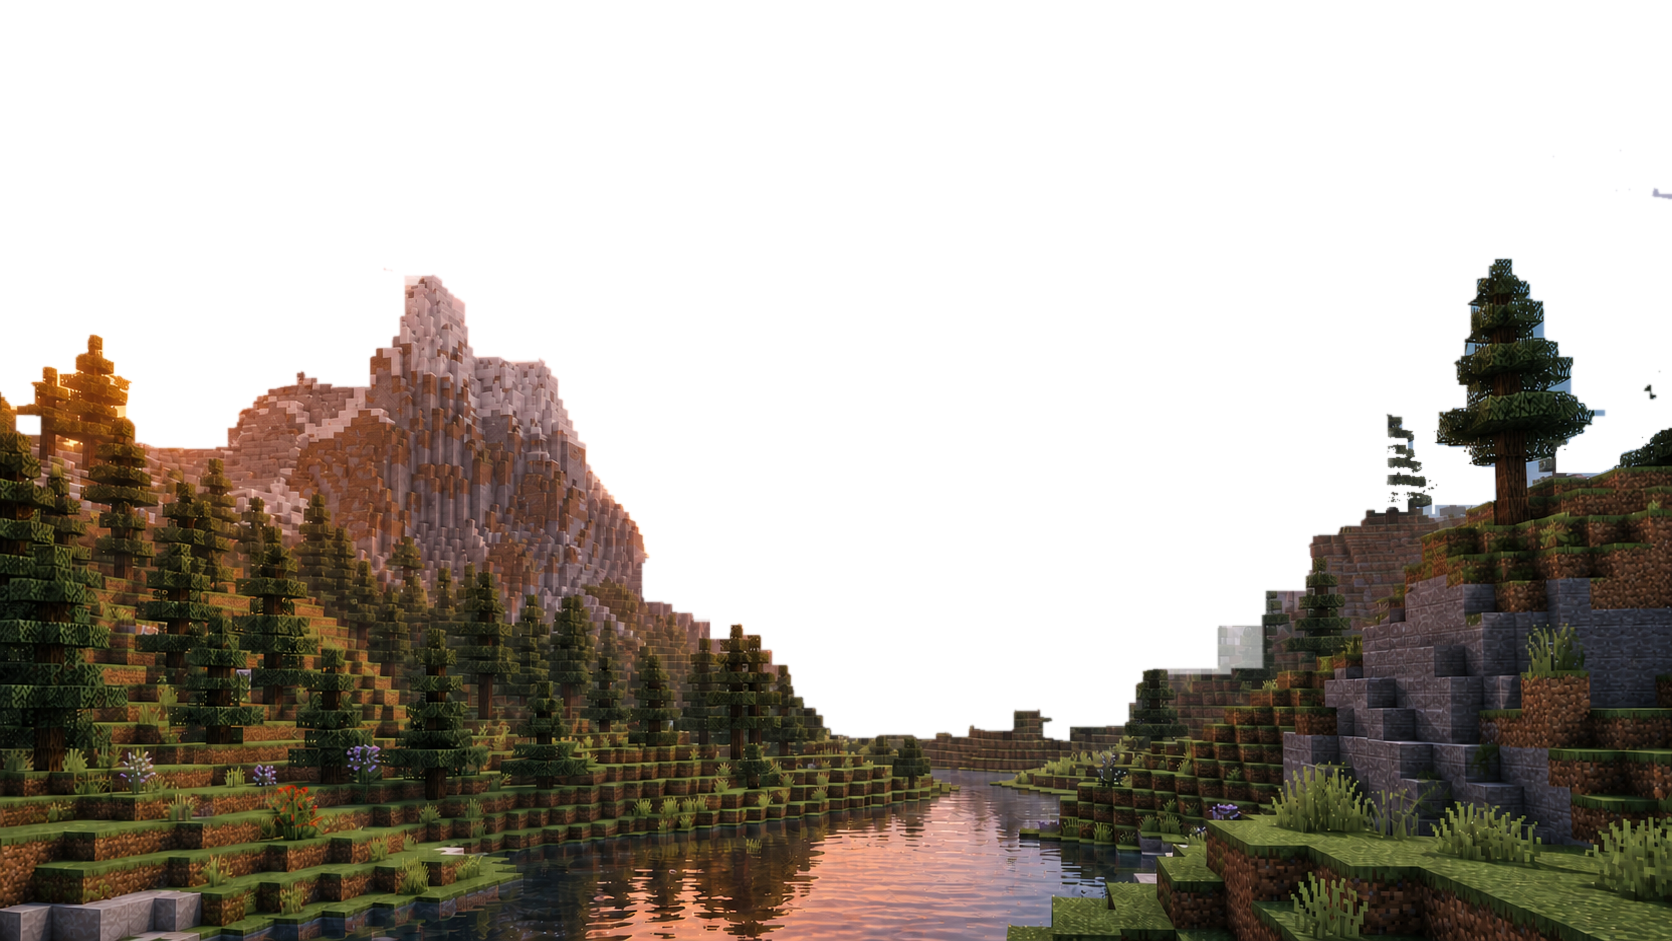
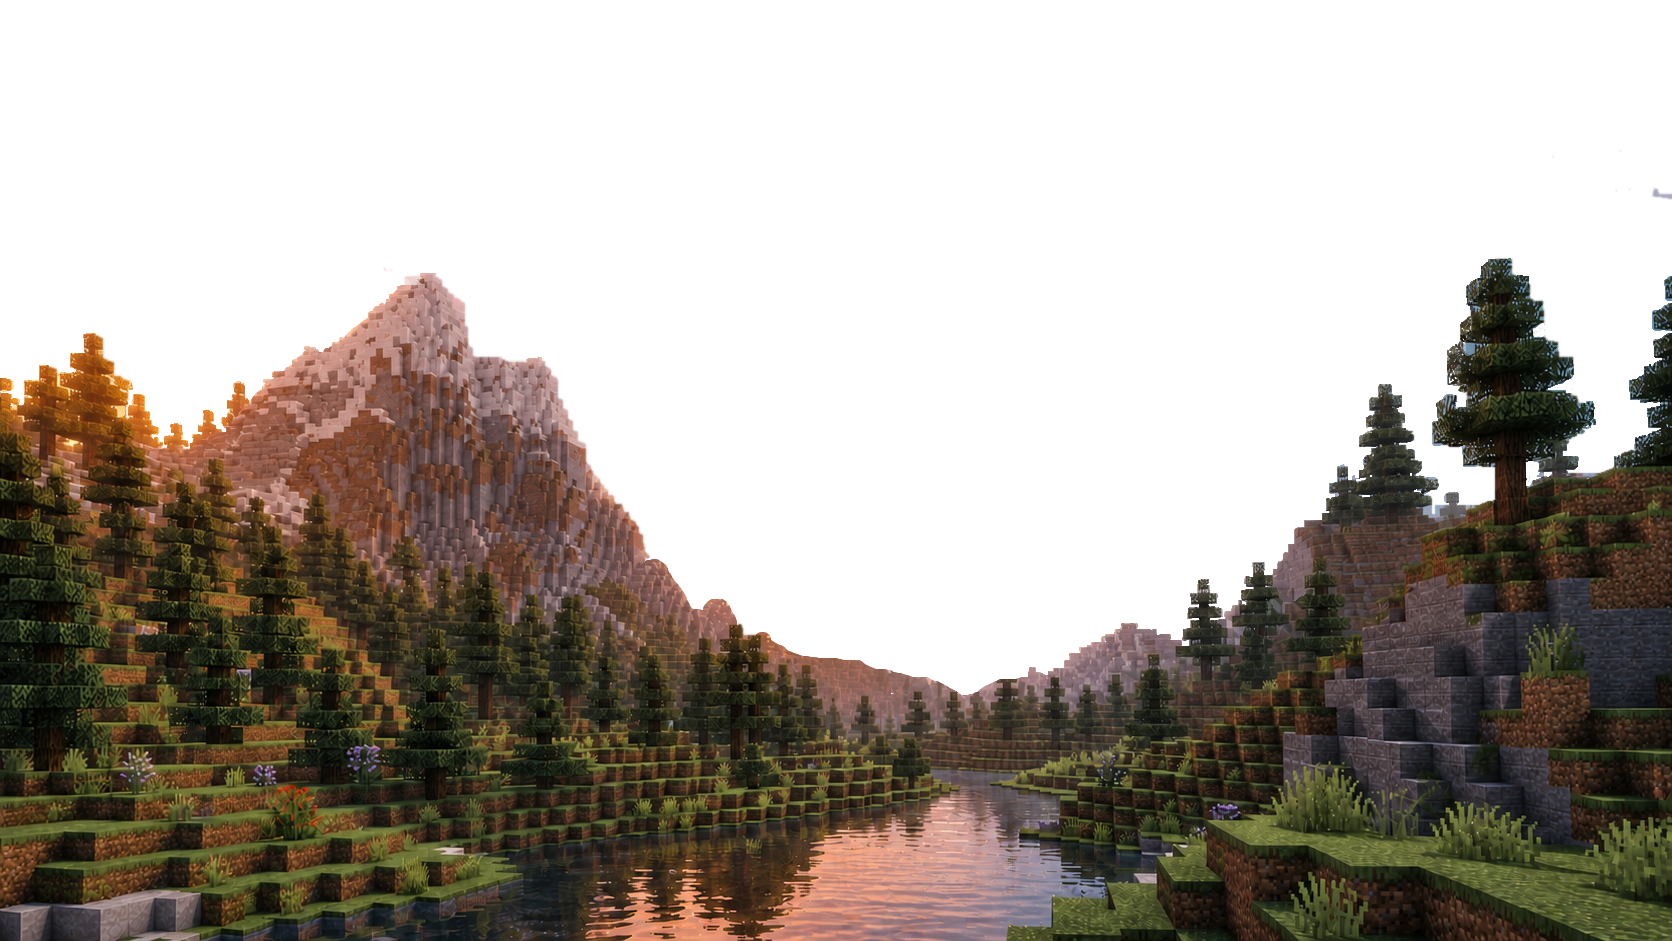
fix(cinematic): apply manually corrected terrain occlusion

diff --git a/public/assets/script.js b/public/assets/script.js
@@ -1641,7 +1641,7 @@ function initWorldEffects() {
   const foregrounds = Object.fromEntries(sceneDefinitions.map(([name]) => {
     const image = document.createElement("img");
     image.className = `cinematic-foreground cinematic-foreground-${name}`;
-    image.src = `assets/minecraft-terrain-foreground-${name}-v1.png?v=7`;
+    image.src = `assets/minecraft-terrain-foreground-${name}-v1.png?v=8`;
     image.alt = "";
     image.decoding = "async";
     return [name, image];
@@ -1711,6 +1711,7 @@ function initWorldEffects() {
   const reducedMotion = window.matchMedia("(prefers-reduced-motion: reduce)").matches;
   const debugEnabled = new URLSearchParams(window.location.search).get("sceneDebug") === "1";
   const debugLayer = new URLSearchParams(window.location.search).get("debugLayer") || "all";
+  const debugGlowDisabled = new URLSearchParams(window.location.search).get("sceneGlow") === "0";
   let sceneScale = 1;
   let sceneOrigin = { x: 0, y: 0 };
   let mobileCamera = false;
@@ -1840,6 +1841,11 @@ function initWorldEffects() {
     const moonControlB = mobileCamera ? screenToScene(window.innerWidth * 0.7, window.innerHeight * 0.12) : { x: SCENE_WIDTH * 0.68, y: SCENE_HEIGHT * 0.06 };
     const moonPoint = cubicPoint(moonStart, moonControlA, moonControlB, moonEnd, moonPhase);
     placeOrb(moon, moonPoint, currentProgress >= 0.27 && currentProgress <= 0.78);
+
+    if (debugGlowDisabled) {
+      sun.querySelector(".cinematic-orb-disc").style.boxShadow = "none";
+      moon.querySelector(".cinematic-orb-disc").style.boxShadow = "none";
+    }
 
     if (debugEnabled && (debugLayer === "sun-disk" || debugLayer === "moon-disk")) {
       Object.values(foregrounds).forEach((image) => { image.style.opacity = "0"; });

diff --git a/public/assets/styles.css b/public/assets/styles.css
@@ -3822,8 +3822,8 @@ body:not(.home-page) .subhero::after{background:linear-gradient(0deg,rgba(12,8,8
 .is-sun-idle .cinematic-sun .cinematic-orb-disc{animation:cinematic-sun-idle 6.5s ease-in-out infinite}
 
 .scene-debug-svg,.scene-debug-terrain,.scene-debug-sky{position:absolute;inset:0;width:100%;height:100%;z-index:8;pointer-events:none}
-.scene-debug-terrain{background:rgba(255,0,170,.24);-webkit-mask:url("minecraft-terrain-mask-v1.png?v=7") center/100% 100% no-repeat;mask:url("minecraft-terrain-mask-v1.png?v=7") center/100% 100% no-repeat}
-.scene-debug-sky{background:rgba(0,255,255,.28);-webkit-mask:url("minecraft-sky-mask-v1.png?v=7") center/100% 100% no-repeat;mask:url("minecraft-sky-mask-v1.png?v=7") center/100% 100% no-repeat}
+.scene-debug-terrain{background:rgba(255,0,170,.24);-webkit-mask:url("minecraft-terrain-mask-v1.png?v=8") center/100% 100% no-repeat;mask:url("minecraft-terrain-mask-v1.png?v=8") center/100% 100% no-repeat}
+.scene-debug-sky{background:rgba(0,255,255,.28);-webkit-mask:url("minecraft-sky-mask-v1.png?v=8") center/100% 100% no-repeat;mask:url("minecraft-sky-mask-v1.png?v=8") center/100% 100% no-repeat}
 .scene-debug-svg{overflow:visible;border:3px solid #00ffbb}
 .scene-debug-svg path{fill:none;stroke-width:5;stroke-dasharray:14 9}
 .debug-sun-path{stroke:#ffdf42}.debug-moon-path{stroke:#8fe5ff}

diff --git a/scripts/generate-terrain-mask.py b/scripts/generate-terrain-mask.py
@@ -1,79 +1,198 @@
+"""Apply the manually reviewed cinematic terrain repairs.
+
+The established terrain mask is a frozen baseline. Manual add/subtract layers
+are applied once, in that order, without thresholding, morphology, flood fill,
+or blur. Foreground RGB is decontaminated independently of alpha by propagating
+nearby fully opaque terrain colours into an eight-pixel edge band. The stable
+neighbour order makes the result deterministic and preserves the saved alpha.
+"""
+
+from __future__ import annotations
+
+import argparse
+import hashlib
+import json
 from pathlib import Path
 
-import numpy as np
-from PIL import Image
-from PIL import ImageFilter
+from PIL import Image, ImageChops
 
 
 ROOT = Path(__file__).resolve().parents[1]
-SOURCE = ROOT / "public" / "assets" / "minecraft-day-valley-v1.png"
-BASE_FOREGROUND = ROOT / "public" / "assets" / "minecraft-terrain-foreground-v1.png"
-OUTPUT = ROOT / "public" / "assets" / "minecraft-terrain-mask-v1.png"
-SKY_OUTPUT = ROOT / "public" / "assets" / "minecraft-sky-mask-v1.png"
+ASSETS = ROOT / "public" / "assets"
+WIDTH, HEIGHT = 1672, 941
+BASE_MASK = ASSETS / "minecraft-terrain-mask-v1.png"
+BASELINE_MASK = ASSETS / "minecraft-terrain-mask-baseline-v1.png"
+REPAIR_ADD = ASSETS / "minecraft-occlusion-add-v2.png"
+REPAIR_SUBTRACT = ASSETS / "minecraft-occlusion-subtract-v2.png"
+REPAIR_METADATA = ASSETS / "minecraft-occlusion-repair-v2.json"
+SKY_OUTPUT = ASSETS / "minecraft-sky-mask-v1.png"
 PHASE_SOURCES = {
-    "day": SOURCE,
-    "sunset": ROOT / "public" / "assets" / "minecraft-sunset-right-v1.png",
-    "night": ROOT / "public" / "assets" / "minecraft-night-valley-v3.png",
-    "sunrise": ROOT / "public" / "assets" / "minecraft-sunrise-left-v1.png",
+    "day": ASSETS / "minecraft-day-valley-v1.png",
+    "sunset": ASSETS / "minecraft-sunset-right-v1.png",
+    "night": ASSETS / "minecraft-night-valley-v3.png",
+    "sunrise": ASSETS / "minecraft-sunrise-left-v1.png",
 }
-
-rgb = np.asarray(Image.open(SOURCE).convert("RGB"), dtype=np.int16)
-height, width, _ = rgb.shape
-red, green, blue = rgb[..., 0], rgb[..., 1], rgb[..., 2]
-
-# The original base mask was produced with bottom-connected solid-pixel flood
-# filling, then repaired around the mountain and tree. Keep that established
-# silhouette as the base for this pass instead of broadly re-segmenting it.
-sky = (blue > red * 1.04) & (blue > green * 0.88) & (blue - red > 12)
-terrain_image = Image.open(BASE_FOREGROUND).convert("RGBA").getchannel("A")
-source_alpha = np.asarray(terrain_image).copy()
+PHASE_OUTPUTS = {
+    phase: ASSETS / f"minecraft-terrain-foreground-{phase}-v1.png"
+    for phase in PHASE_SOURCES
+}
+REPAIR_PATHS = (REPAIR_ADD, REPAIR_SUBTRACT, REPAIR_METADATA)
 
 
-def close_region(image, box, size):
-    """Close classification pinholes only inside a known solid subject."""
-    region = image.crop(box)
-    region = region.filter(ImageFilter.MaxFilter(size)).filter(ImageFilter.MinFilter(size))
-    image.paste(region, box[:2])
+def sha256(path: Path) -> str:
+    return hashlib.sha256(path.read_bytes()).hexdigest()
 
 
-# The snowy northwest ridge contains pale blue shadow blocks that sit very close
-# to the sky colour. A slightly stronger local close keeps its stepped outline
-# intact without widening unrelated clouds or distant terrain.
-close_region(terrain_image, (180, 220, 710, 690), 31)
-# Blue-gray stone on the right hillside was mistaken for sky by the original
-# segmentation. Close those local holes without extending the outer ridge.
-close_region(terrain_image, (1070, 430, 1672, 941), 61)
+def load_rgba(path: Path) -> Image.Image:
+    with Image.open(path) as image:
+        if image.size != (WIDTH, HEIGHT):
+            raise ValueError(f"{path.name} must be {WIDTH}x{HEIGHT}; got {image.size[0]}x{image.size[1]}")
+        return image.convert("RGBA").copy()
 
-alpha = np.asarray(terrain_image).copy()
 
-# Re-open only gaps that were already transparent in the established foreground.
-# Colour alone cannot determine alpha here: cyan leaf highlights are still solid
-# foliage, especially when the moon makes small classification errors obvious.
-for left, top, right, bottom in (
-    (0, 330, 245, 650),
-    (1180, 360, 1435, 570),
-    (1400, 235, 1672, 505),
-):
-    region_sky = sky[top:bottom, left:right]
-    alpha_region = alpha[top:bottom, left:right]
-    source_region = source_alpha[top:bottom, left:right]
-    alpha_region[region_sky & (source_region == 0)] = 0
+def validate_inputs() -> tuple[Image.Image, Image.Image, Image.Image, dict, dict[str, str]]:
+    missing = [str(path) for path in (*REPAIR_PATHS, BASE_MASK, *PHASE_SOURCES.values()) if not path.exists()]
+    if missing:
+        raise FileNotFoundError("Missing required cinematic input(s): " + ", ".join(missing))
 
-rgba = np.full((height, width, 4), 255, dtype=np.uint8)
-soft_alpha = np.asarray(Image.fromarray(alpha, mode="L").filter(ImageFilter.GaussianBlur(0.65)))
-rgba[..., 3] = soft_alpha
-Image.fromarray(rgba, mode="RGBA").save(OUTPUT, optimize=True)
+    repair_hashes = {path.name: sha256(path) for path in REPAIR_PATHS}
+    metadata = json.loads(REPAIR_METADATA.read_text(encoding="utf-8"))
+    baseline_path = BASELINE_MASK if BASELINE_MASK.exists() else BASE_MASK
+    if metadata.get("baseMaskSha256") != sha256(baseline_path):
+        raise ValueError(f"Saved base-mask hash does not match {baseline_path.name}")
+    if metadata.get("addLayerSha256") != repair_hashes[REPAIR_ADD.name]:
+        raise ValueError("Saved repair-add hash does not match repair metadata")
+    if metadata.get("subtractLayerSha256") != repair_hashes[REPAIR_SUBTRACT.name]:
+        raise ValueError("Saved repair-subtract hash does not match repair metadata")
 
-sky_rgba = np.full((height, width, 4), 255, dtype=np.uint8)
-sky_rgba[..., 3] = 255 - soft_alpha
-Image.fromarray(sky_rgba, mode="RGBA").save(SKY_OUTPUT, optimize=True)
+    base = load_rgba(baseline_path).getchannel("A")
+    add = load_rgba(REPAIR_ADD).getchannel("A")
+    subtract = load_rgba(REPAIR_SUBTRACT).getchannel("A")
+    strong_add = add.point(lambda value: 255 if value >= 200 else 0)
+    strong_subtract = subtract.point(lambda value: 255 if value >= 200 else 0)
+    strong_overlap = sum(ImageChops.multiply(strong_add, strong_subtract).histogram()[255:])
+    if strong_overlap:
+        raise ValueError(f"{strong_overlap} strongly conflicting repair pixels remain")
+    return base, add, subtract, metadata, repair_hashes
 
-for phase, source in PHASE_SOURCES.items():
-    foreground = np.asarray(Image.open(source).convert("RGBA")).copy()
-    foreground[..., 3] = soft_alpha
-    phase_output = ROOT / "public" / "assets" / f"minecraft-terrain-foreground-{phase}-v1.png"
-    Image.fromarray(foreground, mode="RGBA").save(phase_output, optimize=True)
-    print(phase_output)
 
-print(OUTPUT)
-print(SKY_OUTPUT)
+def final_alpha(base: Image.Image, add: Image.Image, subtract: Image.Image) -> Image.Image:
+    result = ImageChops.lighter(base, add)
+    result = ImageChops.darker(result, ImageChops.invert(subtract))
+    if len(result.histogram()) != 256:
+        raise ValueError("Final alpha escaped the 0..255 range")
+    return result
+
+
+def shifted(image: Image.Image, dx: int, dy: int) -> Image.Image:
+    result = Image.new(image.mode, image.size)
+    source_box = (max(0, -dx), max(0, -dy), WIDTH - max(0, dx), HEIGHT - max(0, dy))
+    result.paste(image.crop(source_box), (max(0, dx), max(0, dy)))
+    return result
+
+
+def propagate_terrain_rgb(rgb: Image.Image, alpha: Image.Image, radius: int = 8) -> Image.Image:
+    """Extend solid terrain RGB into a narrow edge band without changing alpha.
+
+    Propagation advances one pixel per pass from alpha=255 seeds. The fixed
+    eight-neighbour order resolves equal-distance ties deterministically.
+    Transparent RGB beyond the band is irrelevant to compositing and untouched.
+    """
+    output = rgb.copy()
+    known = alpha.point(lambda value: 255 if value == 255 else 0)
+    directions = ((-1, 0), (0, -1), (0, 1), (1, 0), (-1, -1), (-1, 1), (1, -1), (1, 1))
+    for _ in range(radius):
+        previous_known = known.copy()
+        previous_rgb = output.copy()
+        for dy, dx in directions:
+            candidate_known = shifted(previous_known, dx, dy)
+            candidates = ImageChops.multiply(candidate_known, ImageChops.invert(known))
+            if candidates.getbbox():
+                output.paste(shifted(previous_rgb, dx, dy), mask=candidates)
+                known = ImageChops.lighter(known, candidates)
+    return output
+
+
+def output_statistics(alpha: Image.Image, base: Image.Image) -> dict[str, int | bool | str | dict[str, str]]:
+    phase_hashes = {path.name: sha256(path) for path in PHASE_OUTPUTS.values()}
+    histogram = alpha.histogram()
+    added = ImageChops.subtract(alpha, base).histogram()
+    removed = ImageChops.subtract(base, alpha).histogram()
+    return {
+        "addedPixelCount": sum(added[1:]),
+        "removedPixelCount": sum(removed[1:]),
+        "partialAlphaPixelCount": sum(histogram[1:255]),
+        "opaqueTerrainPixelCount": histogram[255],
+        "transparentSkyPixelCount": histogram[0],
+        "allPhaseAlphasMatch": True,
+        "finalMaskSha256": sha256(BASE_MASK),
+        "phaseForegroundSha256": phase_hashes,
+    }
+
+
+def validate_outputs(expected_alpha: Image.Image) -> None:
+    outputs = (BASE_MASK, SKY_OUTPUT, *PHASE_OUTPUTS.values())
+    for path in outputs:
+        if not path.exists():
+            raise FileNotFoundError(f"Missing generated output: {path}")
+        actual = load_rgba(path).getchannel("A")
+        expected = ImageChops.invert(expected_alpha) if path == SKY_OUTPUT else expected_alpha
+        if ImageChops.difference(actual, expected).getbbox():
+            raise ValueError(f"Unexpected alpha channel in {path.name}")
+    alphas = [load_rgba(path).getchannel("A") for path in PHASE_OUTPUTS.values()]
+    if not all(not ImageChops.difference(alphas[0], alpha).getbbox() for alpha in alphas[1:]):
+        raise ValueError("Phase foreground alpha channels differ")
+
+
+def generate() -> dict[str, object]:
+    base, add, subtract, _, repair_hashes = validate_inputs()
+    repair_hashes_before = {path: sha256(path) for path in REPAIR_PATHS}
+    alpha = final_alpha(base, add, subtract)
+
+    if not BASELINE_MASK.exists():
+        BASELINE_MASK.write_bytes(BASE_MASK.read_bytes())
+
+    mask = Image.new("RGBA", (WIDTH, HEIGHT), (255, 255, 255, 255))
+    mask.putalpha(alpha)
+    mask.save(BASE_MASK, optimize=True)
+
+    sky = Image.new("RGBA", (WIDTH, HEIGHT), (255, 255, 255, 255))
+    sky.putalpha(ImageChops.invert(alpha))
+    sky.save(SKY_OUTPUT, optimize=True)
+
+    for phase, source in PHASE_SOURCES.items():
+        rgba = load_rgba(source)
+        clean_rgb = propagate_terrain_rgb(rgba.convert("RGB"), alpha)
+        foreground = clean_rgb.convert("RGBA")
+        foreground.putalpha(alpha)
+        foreground.save(PHASE_OUTPUTS[phase], optimize=True)
+
+    for path, before in repair_hashes_before.items():
+        if sha256(path) != before:
+            raise RuntimeError(f"Generator attempted to overwrite authoritative repair file: {path.name}")
+    validate_outputs(alpha)
+    report = output_statistics(alpha, base)
+    report["repairSha256"] = repair_hashes
+    return report
+
+
+def validate_only() -> dict[str, object]:
+    base, add, subtract, _, repair_hashes = validate_inputs()
+    alpha = final_alpha(base, add, subtract)
+    if all(path.exists() for path in (SKY_OUTPUT, *PHASE_OUTPUTS.values())):
+        validate_outputs(alpha)
+    report = output_statistics(alpha, base)
+    report["repairSha256"] = repair_hashes
+    return report
+
+
+def main() -> None:
+    parser = argparse.ArgumentParser(description="Apply or validate manually reviewed cinematic mask repairs.")
+    parser.add_argument("--validate-only", action="store_true", help="Validate inputs and existing outputs without writing files.")
+    args = parser.parse_args()
+    report = validate_only() if args.validate_only else generate()
+    print(json.dumps(report, indent=2, sort_keys=True))
+
+
+if __name__ == "__main__":
+    main()

diff --git a/docs/cinematic-review/manual-mask-debug/README.md b/docs/cinematic-review/manual-mask-debug/README.md
@@ -1,0 +1,29 @@
+# Manually corrected cinematic mask review
+
+These captures validate the authoritative `minecraft-occlusion-*-v2.png` repairs at the six review checkpoints. All frames use a 1440 × 900 Chrome viewport and the existing celestial paths and phase timing.
+
+Each checkpoint includes:
+
+- `final-glow`: corrected scene with the normal celestial glow;
+- `final-no-glow`: corrected scene with disk shadow disabled for edge inspection;
+- `before-after-split`: earlier review frame on the left and corrected scene on the right;
+- `foreground`: corrected phase foreground by itself;
+- `alpha`: final terrain alpha overlay;
+- `disk-only`: physical celestial disk without foreground occlusion.
+
+## Checkpoints
+
+| Prefix | Progress | Target |
+|---|---:|---|
+| `progress-028` | 0.28 | Sun behind right trees |
+| `progress-032` | 0.32 | Sun behind smaller tree |
+| `progress-036` | 0.36 | Moon behind left tree |
+| `progress-042` | 0.42 | Moon at upper-left mountain |
+| `progress-045` | 0.45 | Mountain ridge with moon |
+| `progress-068` | 0.68 | Moon behind right trees |
+
+## Deterministic edge-color decontamination
+
+The generator preserves the final alpha exactly. For foreground RGB only, fully opaque terrain pixels seed an eight-pixel propagation band. Each pass copies RGB from the previous pass in a fixed cardinal-then-diagonal neighbor order. This replaces sky-contaminated RGB beneath partial and nearby transparent edge pixels without expanding, thresholding, blurring, or otherwise changing alpha.
+
+The four phase foregrounds use RGB from their matching day, sunset, night, and sunrise source images. Only their alpha channels are byte-identical.
